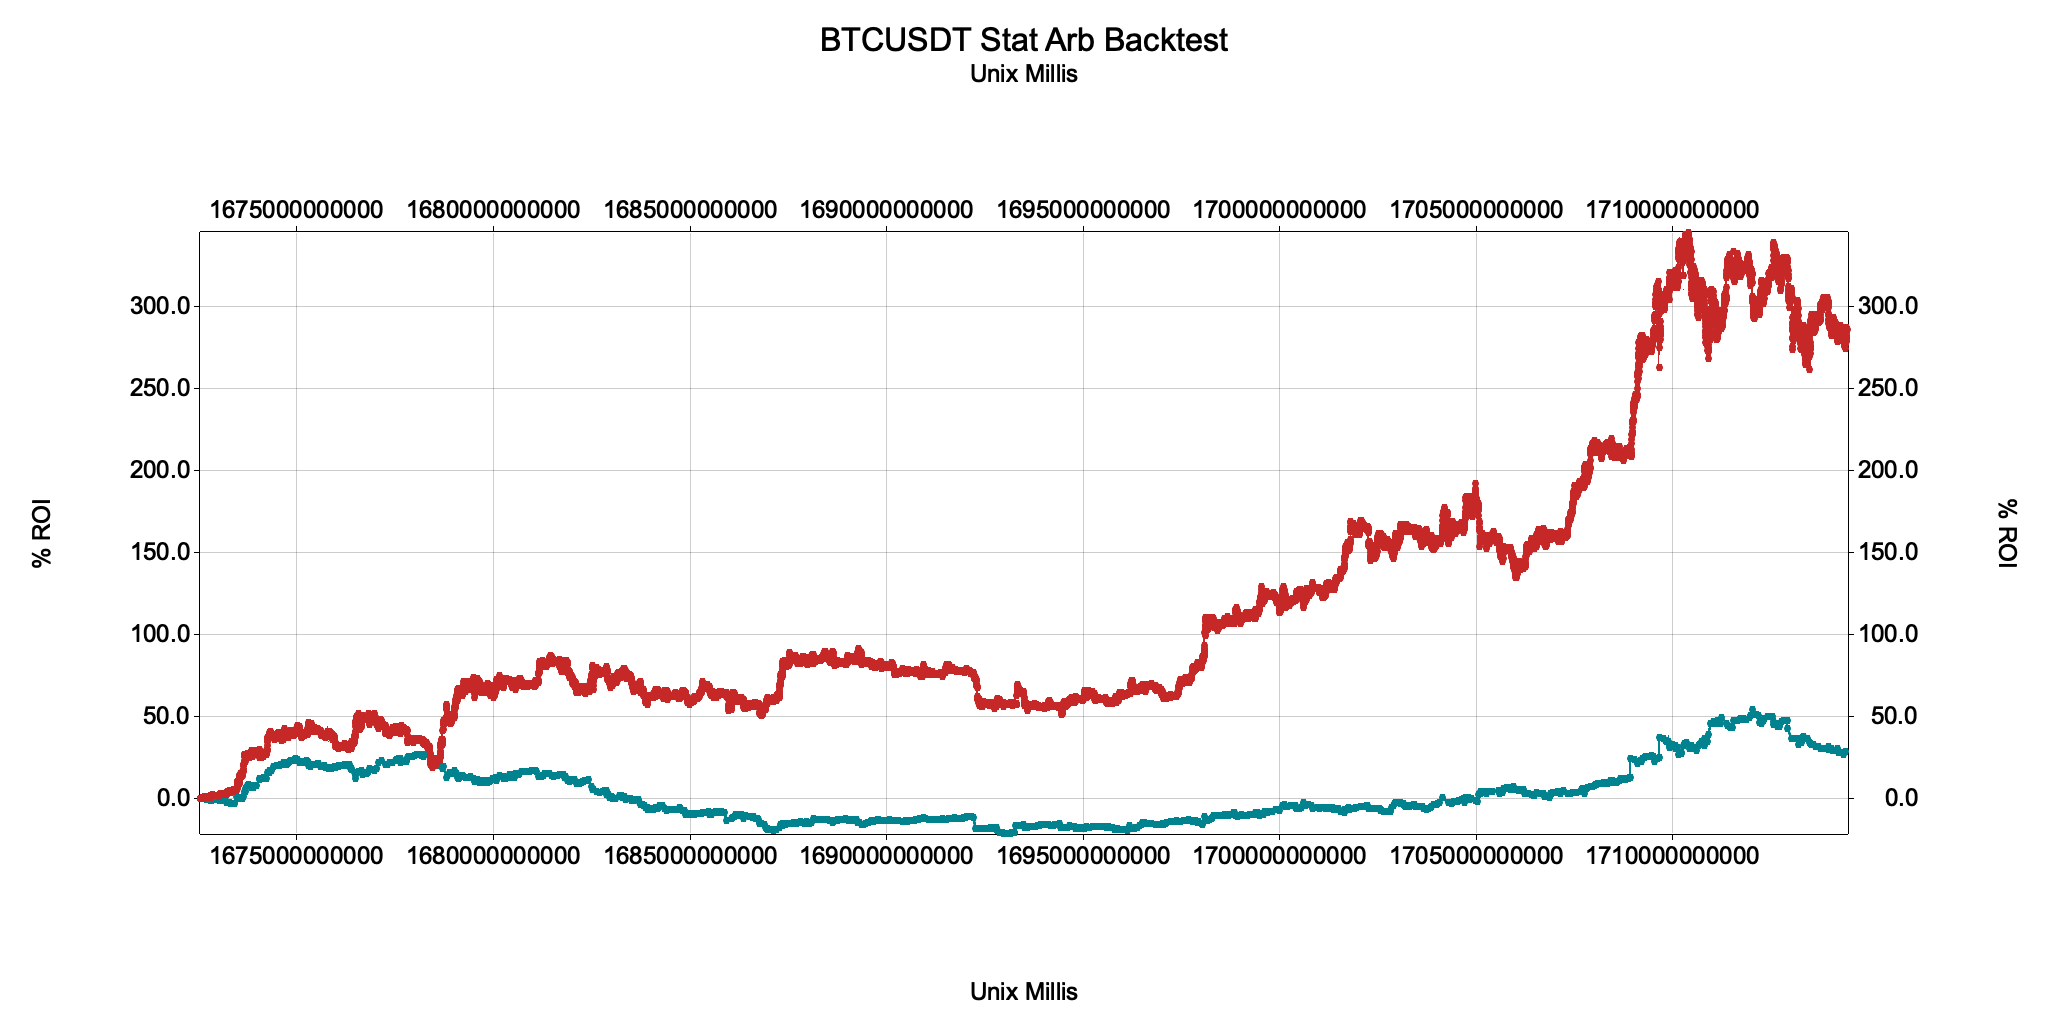
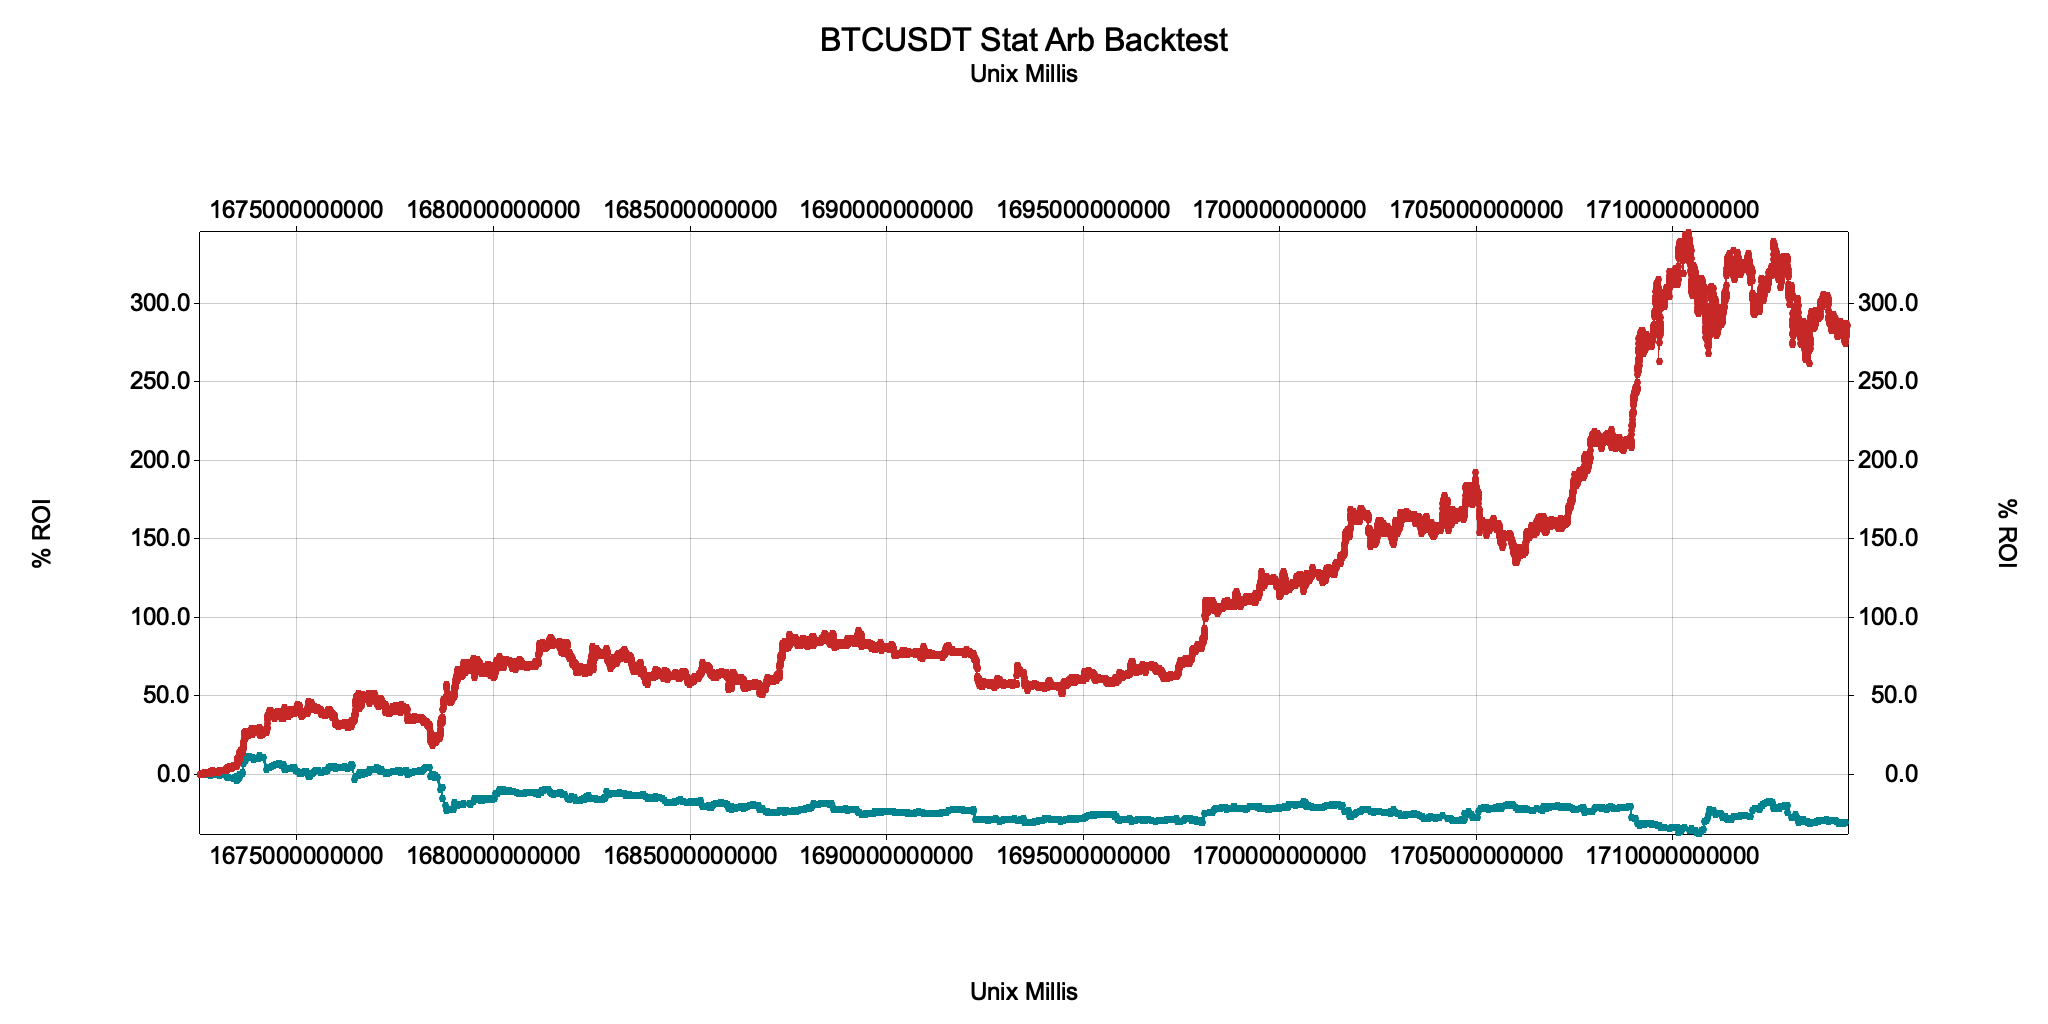
stop loss logs

diff --git a/dreamrunner/src/engine.rs b/dreamrunner/src/engine.rs
@@ -8,7 +8,7 @@ use std::time::SystemTime;
 use chrono::Timelike;
 use crossbeam::channel::Receiver;
 use lib::trade::*;
-use time_series::{trunc, Candle, Time, Signal};
+use time_series::{trunc, Candle, Time, Signal, SignalInfo};
 use playbook::Strategy;
 
 pub struct Engine<T, S: Strategy<T>> {
@@ -229,18 +229,21 @@ impl<T, S: Strategy<T>> Engine<T, S> {
         let builder = self.build_order(info.price, info.date, Side::Long)?;
         self.active_order.add_entry(builder.entry.clone());
         if let Some(stop_loss) = builder.stop_loss {
+          info!("🟣 Adding stop loss to long entry: {:#?}", &stop_loss);
           self.active_order.add_stop_loss(stop_loss.clone());
         }
-        self.trade_or_reset::<LimitOrderResponse>(builder.entry).await?;
+        if !self.disable_trading {
+          self.trade_or_reset::<LimitOrderResponse>(builder.entry).await?;
+        }
         Ok(())
       },
       Signal::ExitLong(info) => {
+        // no stop loss on long take profit (exit order) so don't need to handle stop loss
         let builder = self.build_order(info.price, info.date, Side::Short)?;
         self.active_order.add_entry(builder.entry.clone());
-        if let Some(stop_loss) = builder.stop_loss {
-          self.active_order.add_stop_loss(stop_loss.clone());
+        if !self.disable_trading {
+          self.trade_or_reset::<LimitOrderResponse>(builder.entry).await?;
         }
-        self.trade_or_reset::<LimitOrderResponse>(builder.entry).await?;
         Ok(())
       },
       _ => Ok(())

diff --git a/playbook/src/strategies/stat_arb.rs b/playbook/src/strategies/stat_arb.rs
@@ -124,8 +124,8 @@ impl StatArb {
         }
         if exit_short {
           if ticker == self.x.id {
-            signals.push(Signal::EnterShort(x_info.clone()))
-            // signals.push(Signal::ExitShort(x_info.clone()))
+            // signals.push(Signal::EnterShort(x_info.clone()))
+            signals.push(Signal::ExitShort(x_info.clone()))
           } else if ticker == self.y.id {
             // todo: do not touch this
             signals.push(Signal::ExitShort(y_info.clone()))
@@ -143,8 +143,8 @@ impl StatArb {
         }
         if enter_short {
           if ticker == self.x.id {
-            signals.push(Signal::ExitShort(x_info))
-            // signals.push(Signal::EnterShort(x_info))
+            // signals.push(Signal::ExitShort(x_info))
+            signals.push(Signal::EnterShort(x_info))
           } else if ticker == self.y.id {
             // todo: do not touch this
             signals.push(Signal::EnterShort(y_info))
